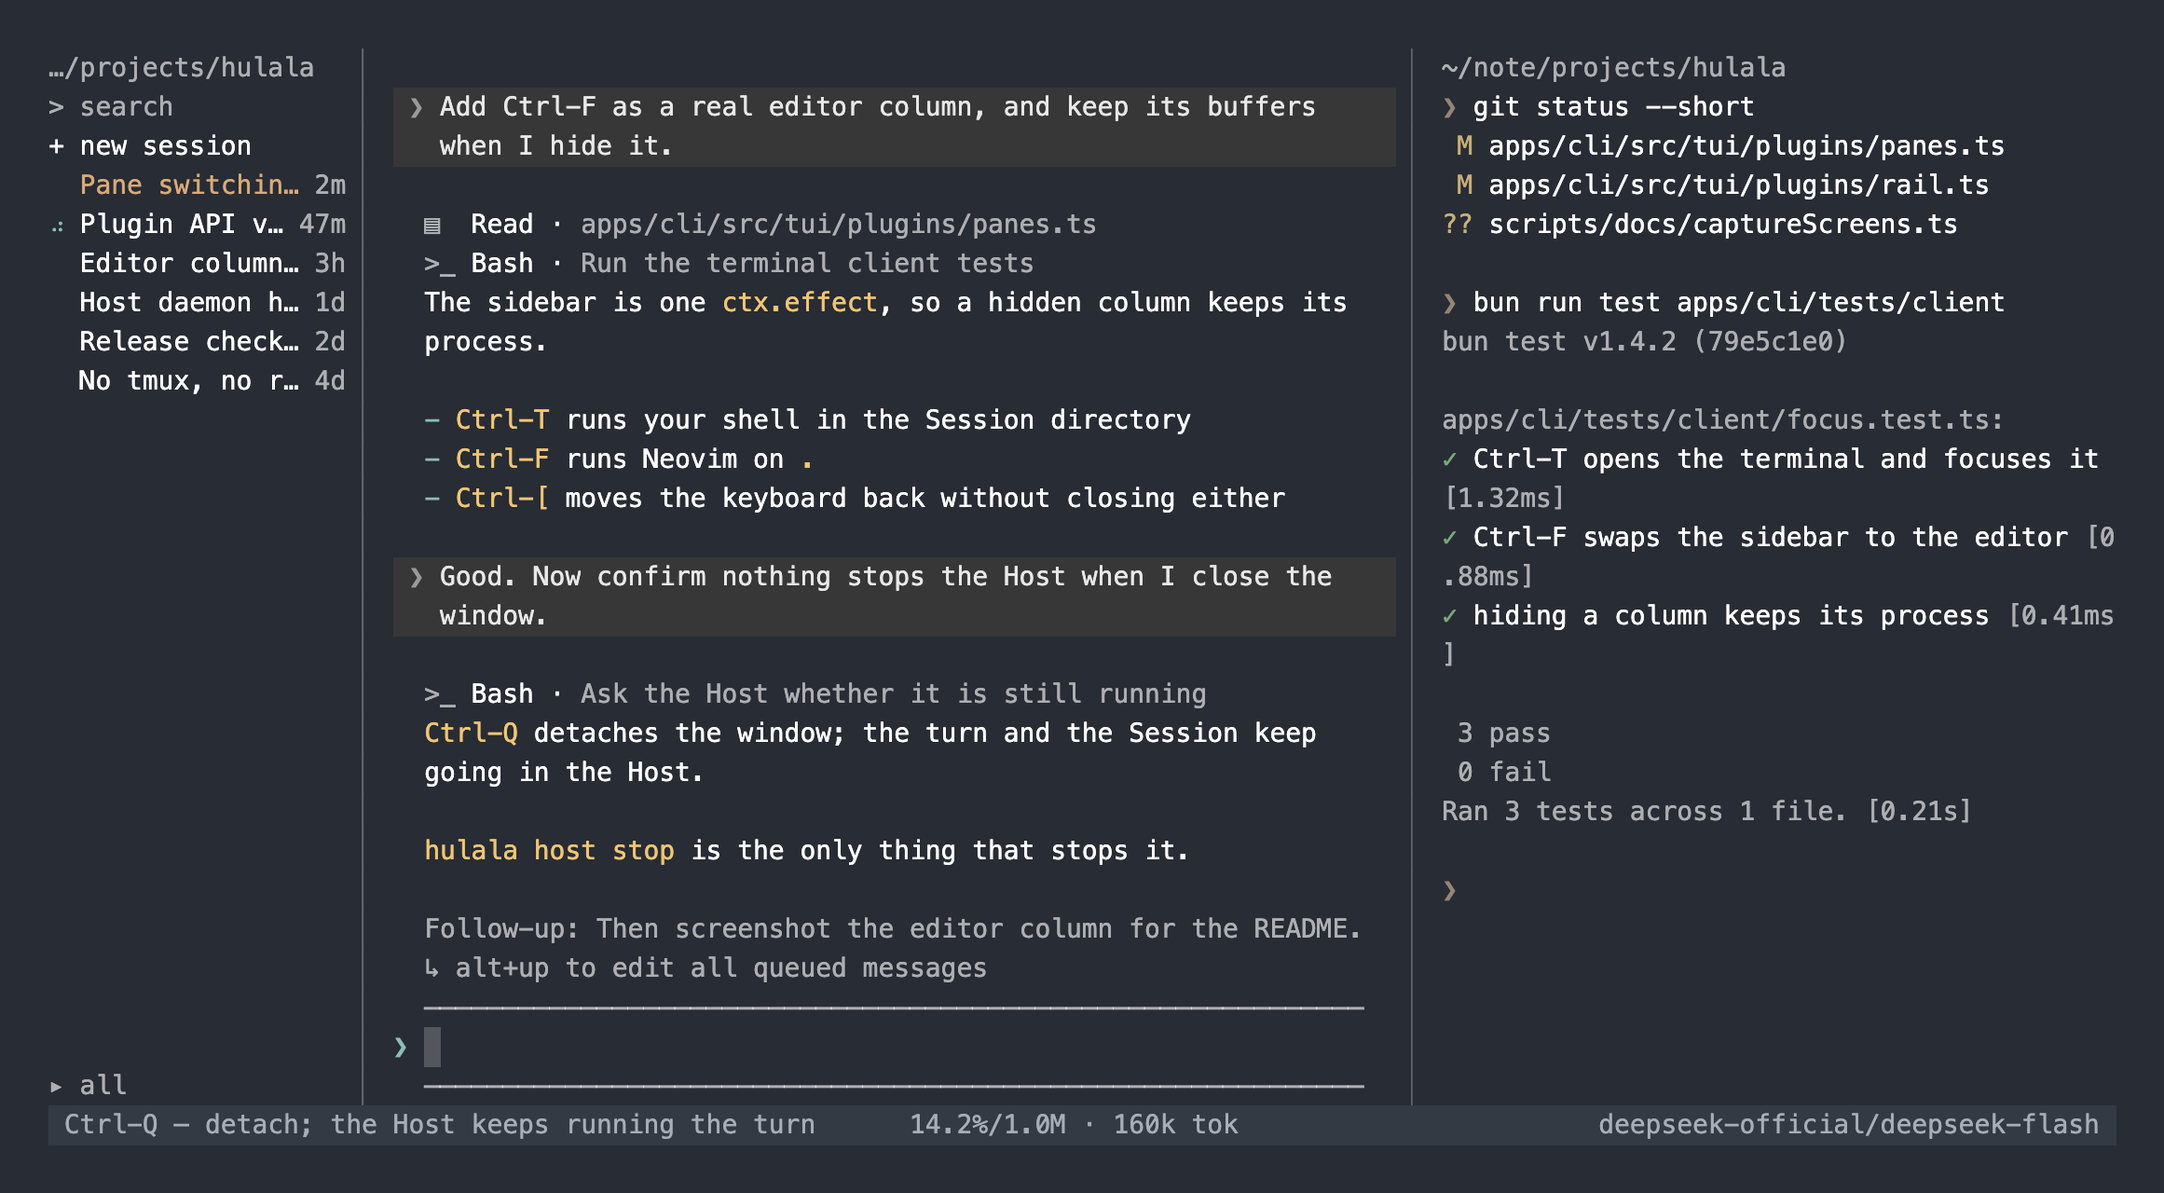
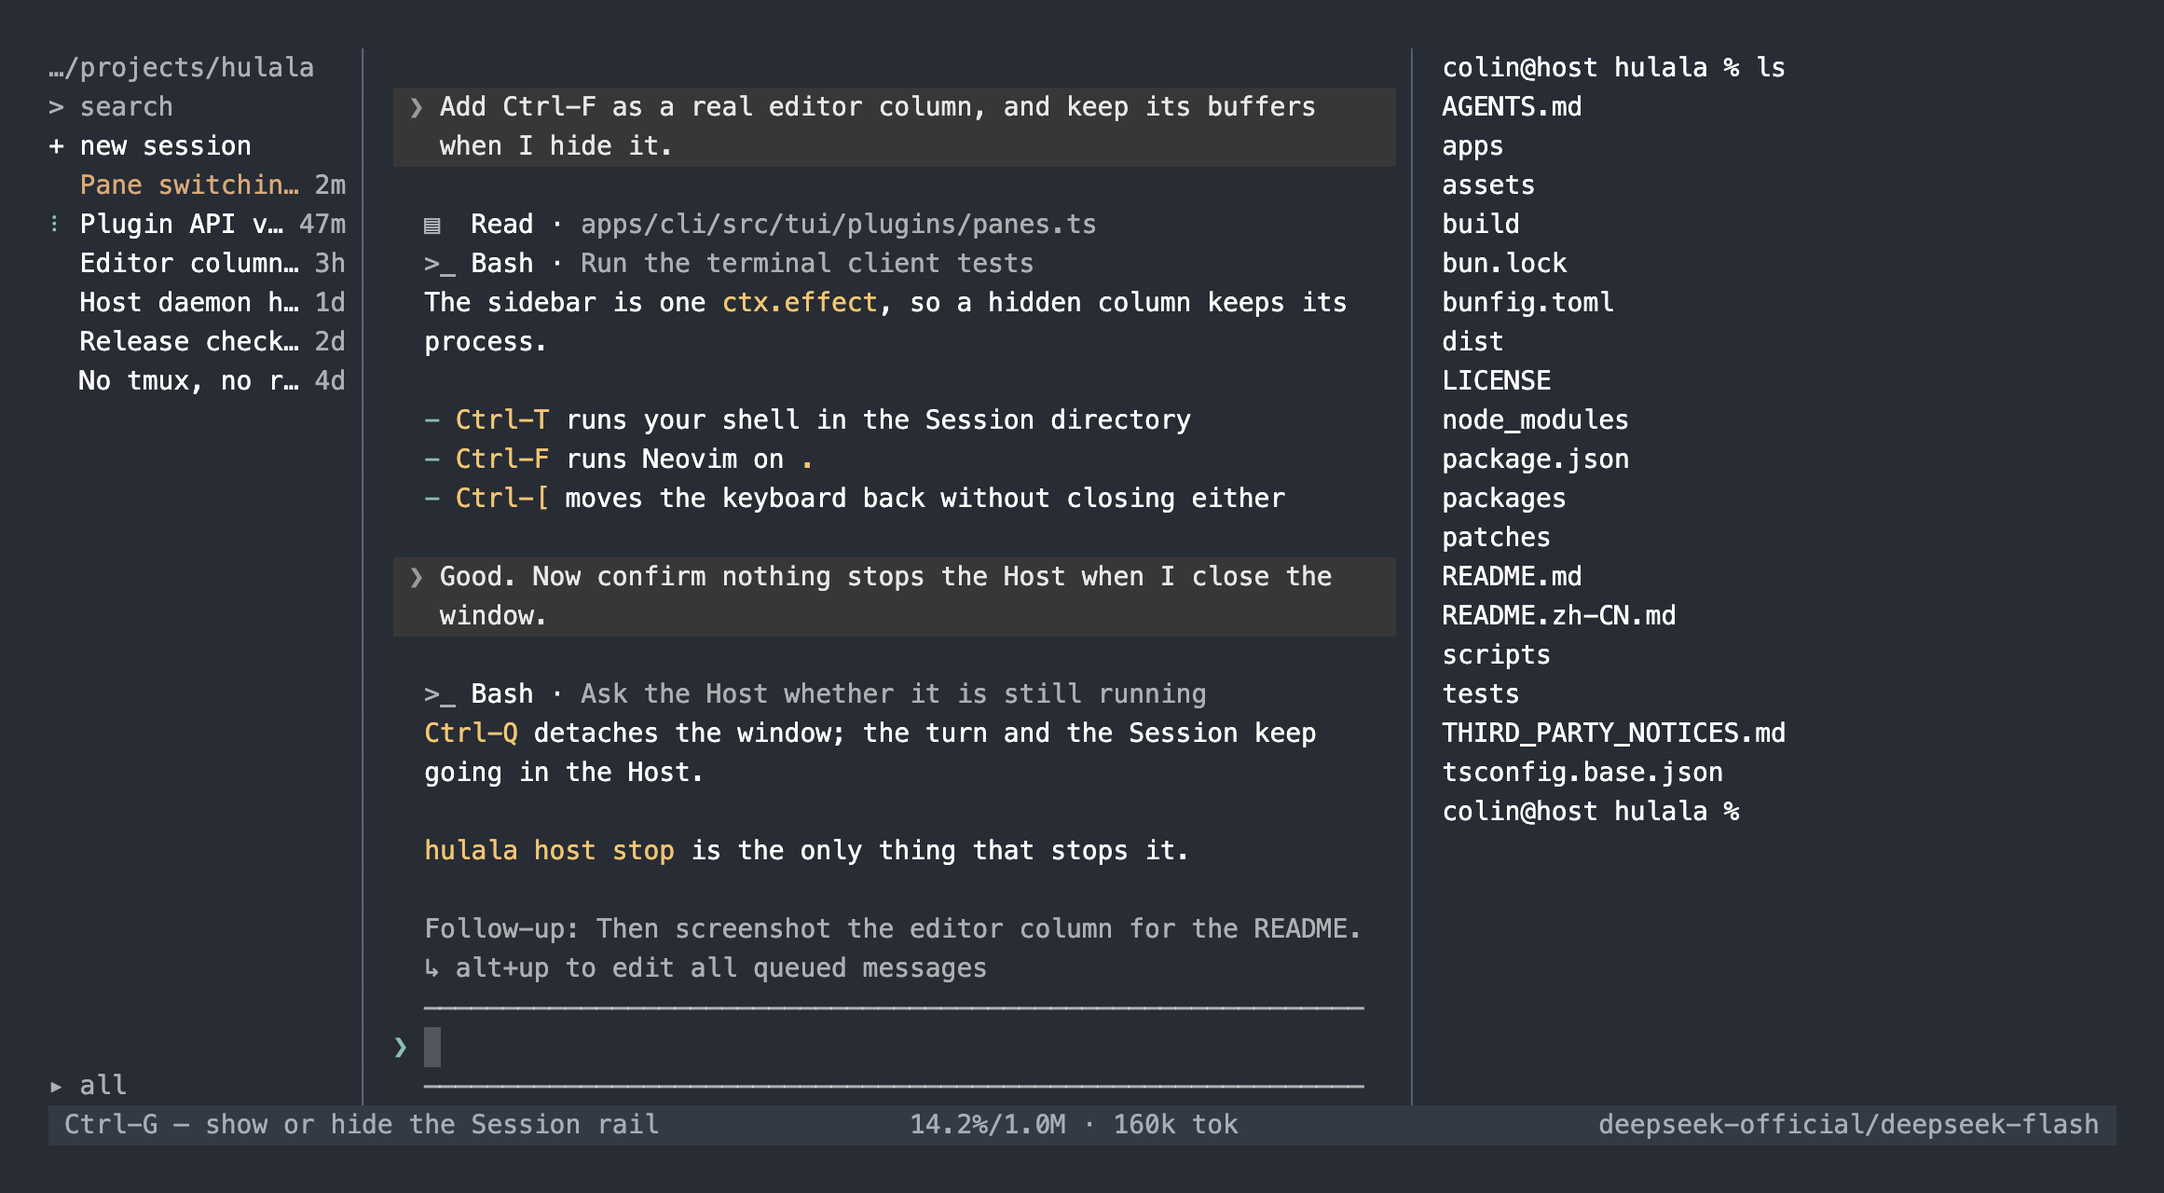
Mark list selection with a band, and capture only real frames
The rail's keyboard row now uses the same band as the file tree's, so the open
Session (ink) and the row you are on (band) are two different signals.

The screenshot script no longer draws the sidebar: every frame is the real
client, with the user's shell and Neovim — the tree shot opens a file from the
bundled explorer. Neovim's floats share one tinted surface with the tree so the
column reads as a single panel, and the selected row is the only one that
changes shade.

Changed region(s): [[0.6512, 0.0312, 0.9922, 0.6875], [0.093, 0.9375, 0.3721, 0.9688]]

diff --git a/scripts/docs/captureScreens.ts b/scripts/docs/captureScreens.ts
@@ -1,15 +1,15 @@
 /**
  * Capture the README and website screenshots under `assets/screens/`.
  *
- * The frames come from the real client: `runTerminalClient` runs with a fake
- * Host and a scripted pty, so layout, wrapping and colour are the shipped code
- * and nothing here redraws the product. The fake Host supplies a plausible
- * transcript and Session list; the scripted pty paints the two sidebar columns,
- * which are ordinary pty programs, so a script stands in for the shell and for
- * Neovim without either process being started.
+ * Every frame is the real client attached to a fake Host: the transcript comes
+ * from scripted events, but the sidebar columns are real processes (the user's
+ * shell, and Neovim with the bundled explorer), so nothing is redrawn here.
  *
- *   bun scripts/docs/captureScreens.ts          # conversation, terminal, editor
- *   bun scripts/docs/captureScreens.ts --tree   # the real file tree (real Neovim)
+ *   bun scripts/docs/captureScreens.ts          # conversation and terminal
+ *   bun scripts/docs/captureScreens.ts --tree   # editor column with the file tree
+ *
+ * The capture runs against a private state root, because the editor writes its
+ * Neovim config once and you want the current one, not the developer's.
  *
  * Rasterizing needs a local Chrome, so this is developer tooling, not a release
  * step. Run it from the repository root.
@@ -20,13 +20,17 @@ import { PassThrough } from 'node:stream'
 import { mkdtempSync, writeFileSync } from 'node:fs'
 import { tmpdir } from 'node:os'
 import { join } from 'node:path'
-import { runTerminalClient } from '../../apps/cli/src/tui/app.ts'
 import type { PtyModule, PtyProcess, PtySpawnOptions } from '../../apps/cli/src/tui/editor/pty.ts'
 import type { TerminalBackend, TerminalSession, TerminalSessionEvent, TerminalSessionHandlers } from '../../apps/cli/src/tui/data/remote.ts'
 import { rasterizeFrame } from './rasterizeFrame.ts'
 import { terminalReply } from './terminalTheme.ts'
 
 // The tree shot gets a wider frame: a third of it has to hold whole names.
+// A private state root: the editor writes its Neovim config once and never
+// rewrites it, so the capture needs a fresh home to pick up the current theme —
+// and it must not touch the developer's own installation.
+process.env.HULALA_HOME = mkdtempSync(join(tmpdir(), 'hulala-screens-home-'))
+
 const COLS = process.argv.includes('--tree') ? 190 : 132
 const ROWS = process.argv.includes('--tree') ? 34 : 28
 const CWD = '/Users/colin/note/projects/hulala'
@@ -40,92 +44,6 @@ const S = {
   blue: '\u001b[38;2;130;150;200m',
   yellow: '\u001b[38;2;200;175;120m',
   grey: '\u001b[38;2;115;117;122m',
-}
-
-/** A Neovim screen: the vendored editor's colours on a plausible file. */
-const EDITOR_LINES: string[] = [
-  `${S.grey}  1 ${R}${D}/**${R}`,
-  `${S.grey}  2 ${R}${D} * Every panel that reads keys asks for English.${R}`,
-  `${S.grey}  3 ${R}${D} * The composer never does.${R}`,
-  `${S.grey}  4 ${R}${D} */${R}`,
-  `${S.grey}  5 ${R}${S.blue}import${R} { spawn } ${S.blue}from${R} ${S.green}'node:child_process'${R}`,
-  `${S.grey}  6 ${R}`,
-  `${S.grey}  7 ${R}${S.blue}export interface${R} InputSource {`,
-  `${S.grey}  8 ${R}  readonly id: string`,
-  `${S.grey}  9 ${R}  readonly label: string`,
-  `${S.grey} 10 ${R}}`,
-  `${S.grey} 11 ${R}`,
-  `${S.grey} 12 ${R}${S.blue}const${R} ENGLISH = ${S.green}'com.apple.keylayout.ABC'${R}`,
-  `${S.grey} 13 ${R}`,
-  `${S.grey} 14 ${R}${S.blue}export function${R} ${S.yellow}switchTo${R}(target: InputSource) {`,
-  `${S.grey} 15 ${R}  ${S.blue}if${R} (target.id === ENGLISH) ${S.blue}return${R}`,
-  `${S.grey} 16 ${R}  ${D}// bin/ime ships with the release${R}`,
-  `${S.grey} 17 ${R}  spawn(imePath(), [target.id])`,
-  `${S.grey} 18 ${R}}`,
-  `${S.grey} 19 ${R}`,
-  `${S.grey} 20 ${R}${D}// Ctrl-[ is byte-identical to Esc${R}`,
-  `${S.grey} 21 ${R}${S.blue}export const${R} owns = (f: boolean) => f`,
-  `${S.grey} 22 ${R}`,
-  `${S.grey} 23 ${R}${D}~${R}`,
-]
-
-/** The editor's statusline, pinned to the pane's last row. */
-function statusline(cols: number): string {
-  const left = ' NORMAL  inputSource.ts'
-  const right = '10:4 utf-8 '
-  const pad = Math.max(1, cols - left.length - right.length)
-  return `\u001b[48;2;38;40;45m\u001b[38;2;210;208;202m${left}${' '.repeat(pad)}${right}${R}`
-}
-
-/** A pty whose program paints a scripted screen instead of running one. */
-function scriptedPty(): PtyModule {
-  return {
-    spawn(file: string, _args: string[], options: PtySpawnOptions): PtyProcess {
-      const isEditor = /nvim/.test(file)
-      let deliver: ((data: string) => void) | undefined
-      let cols = options.cols
-      let rows = options.rows
-      const paint = (): void => {
-        if (isEditor) {
-          const code = EDITOR_LINES.slice(0, Math.max(1, rows - 1))
-          while (code.length < rows - 1) code.push('')
-          deliver?.(`\u001b[H\u001b[2J${code.join('\r\n')}\u001b[${rows};1H${statusline(cols)}`)
-          return
-        }
-        const shell = [
-          `${D}~/note/projects/hulala${R}`,
-          `${S.brand}❯${R} git status --short`,
-          `${S.yellow} M${R} apps/cli/src/tui/plugins/panes.ts`,
-          `${S.yellow} M${R} apps/cli/src/tui/plugins/rail.ts`,
-          `${S.yellow}??${R} scripts/docs/captureScreens.ts`,
-          '',
-          `${S.brand}❯${R} bun run test apps/cli/tests/client`,
-          `${D}bun test v1.4.2 (79e5c1e0)${R}`,
-          '',
-          `${D}apps/cli/tests/client/focus.test.ts:${R}`,
-          `${S.green}✓${R} Ctrl-T opens the terminal and focuses it ${D}[1.32ms]${R}`,
-          `${S.green}✓${R} Ctrl-F swaps the sidebar to the editor ${D}[0.88ms]${R}`,
-          `${S.green}✓${R} hiding a column keeps its process ${D}[0.41ms]${R}`,
-          '',
-          `${D} 3 pass${R}`,
-          `${D} 0 fail${R}`,
-          `${D}Ran 3 tests across 1 file. [0.21s]${R}`,
-          '',
-          `${S.brand}❯${R} `,
-        ]
-        deliver?.(`\u001b[H\u001b[2J${shell.slice(0, rows).join('\r\n')}`)
-      }
-      const timer = setTimeout(paint, 60)
-      return {
-        pid: 1,
-        onData(handler) { deliver = handler },
-        onExit() {},
-        write() {},
-        resize(nextCols: number, nextRows: number) { cols = nextCols; rows = nextRows; paint() },
-        kill() { clearTimeout(timer) },
-      }
-    },
-  }
 }
 
 const sessions: TerminalSession[] = [
@@ -238,21 +156,21 @@ const wait = (ms: number): Promise<void> => new Promise((resolve) => setTimeout(
 /** Frames to capture: the key that opens the column, and the file it lands in. */
 const TREE = process.argv.includes('--tree')
 
-const SHOTS: Array<{ name: string; keys?: string[] }> = TREE
-  ? [{ name: '04-files', keys: ['\u0006', `${'\u001b[B'.repeat(16)}\r`] }]
+const SHOTS: Array<{ name: string; keys?: string[]; wait?: number }> = TREE
+  ? [{ name: '03-files', keys: ['\u0006', `${'\u001b[B'.repeat(16)}\r`], wait: 6000 }]
   : [
       { name: '01-conversation' },
-      { name: '02-terminal', keys: ['\u0014'] },
-      { name: '03-editor', keys: ['\u0006'] },
+      // The shell is the user's own: its prompt and rc files need a moment
+      // before it can take a command.
+      { name: '02-terminal', keys: ['\u0014', 'ls\r'], wait: 3000 },
     ]
 
 async function main(): Promise<void> {
+  const { runTerminalClient } = await import('../../apps/cli/src/tui/app.ts')
   const dir = mkdtempSync(join(tmpdir(), 'hulala-screens-'))
   void runTerminalClient({
     backend: fakeBackend(), cwd: CWD, input, output, resume: 'session-a',
-    // The tree shot is the real editor: the vendored snacks explorer is what the
-    // screenshot is meant to show, so nothing here paints over it.
-    ...(TREE ? {} : { pty: scriptedPty() }),
+
     updateCheck: async () => undefined,
   })
   await wait(1400)
@@ -262,7 +180,7 @@ async function main(): Promise<void> {
         input.write(key)
         // The editor needs real time to start Neovim, paint its explorer and
         // open the file the tree lands on.
-        await wait(TREE ? (index === 0 ? 6000 : 1600) : 900)
+        await wait(shot.wait ?? 900)
       }
     }
     const ansiPath = join(dir, `${shot.name}.ansi`)

diff --git a/apps/cli/src/tui/view/theme.ts b/apps/cli/src/tui/view/theme.ts
@@ -69,6 +69,15 @@ const BAND_TEXT = [0xa8, 0xad, 0xb7] as const
  */
 const SEPARATOR_RGB = [0x5c, 0x63, 0x70] as const
 
+/**
+ * The row under the keyboard in a list.
+ *
+ * The rail marks the open Session with ink; the row you are *on* is a band. Two
+ * different questions — which Session is open, and where the keyboard is — read
+ * as two different signals rather than one colour doing both jobs.
+ */
+const SELECTED_BG = [0x3a, 0x3f, 0x4a] as const
+
 const RESET = '\u001b[0m'
 
 function supportsTrueColor(): boolean {
@@ -162,6 +171,7 @@ function buildStyles(color: boolean): {
   brand: (text: string) => string
   band: (text: string) => string
   separator: (text: string) => string
+  selected: (text: string) => string
   userPanel: (text: string) => string
   userArrow: (text: string) => string
   error: (text: string) => string
@@ -175,7 +185,7 @@ function buildStyles(color: boolean): {
 } {
   if (!color) {
     const identity = (text: string): string => text
-    return { dim: identity, accent: identity, highlight: identity, brand: identity, band: identity, separator: identity, userPanel: identity, userArrow: identity, error: identity, warn: identity, ok: identity, bold: identity, italic: identity, strike: identity, underline: identity, code: identity }
+    return { dim: identity, accent: identity, highlight: identity, brand: identity, band: identity, separator: identity, selected: identity, userPanel: identity, userArrow: identity, error: identity, warn: identity, ok: identity, bold: identity, italic: identity, strike: identity, underline: identity, code: identity }
   }
   // A panel carries its own background and foreground. Inner styles reset both,
   // so re-open the panel after every nested reset to keep the row continuous to
@@ -189,6 +199,7 @@ function buildStyles(color: boolean): {
     accent: wrap('\u001b[36m', RESET),
     band: panel(`${bgOpen(BAND_BG)}${fgOpen(BAND_TEXT)}`),
     separator: wrap(fgOpen(SEPARATOR_RGB), RESET),
+    selected: panel(bgOpen(SELECTED_BG)),
     userPanel: panel(`${bgOpen(USER_PANEL_BG)}${fgOpen(USER_PANEL_TEXT)}`),
     userArrow: wrap(fgOpen(USER_PANEL_ARROW), RESET),
     error: wrap('\u001b[31m', RESET),

diff --git a/apps/cli/src/tui/editor/nvimConfig.ts b/apps/cli/src/tui/editor/nvimConfig.ts
@@ -111,6 +111,9 @@ vim.opt.shada = { "!", "'100", "<50", "s10", "h", "%" }
 
 local highlights = {
   Normal = { fg = fg, bg = bg },
+  -- The file tree and the pickers are one tinted surface of their own: a step
+  -- away from the editor, and the same whether the tree is a float or a window
+  -- beside a file. Only the row under the keyboard changes shade.
   NormalFloat = { fg = fg, bg = theme_value("pmenu", bg) },
   FloatBorder = { fg = theme_value("border", fg), bg = theme_value("pmenu", bg) },
   FloatTitle = { fg = theme_value("title", fg), bg = theme_value("pmenu", bg) },
@@ -167,6 +170,26 @@ local highlights = {
 for group, spec in pairs(highlights) do
   vim.api.nvim_set_hl(0, group, spec)
 end
+
+-- The file tree and the pickers mark the row under the keyboard with ink, not
+-- with a filled band: a background here would be a second surface inside a
+-- column that is meant to read as one, and this client reserves background
+-- blocks for panels, never for selection.
+vim.api.nvim_set_hl(0, "HulalaTree", { fg = fg, bg = theme_value("pmenu", bg) })
+vim.api.nvim_set_hl(0, "HulalaTreeCursor", { bg = theme_value("pmenuSelected", bg) })
+
+local function tree_window(win)
+  local filetype = vim.bo[vim.api.nvim_win_get_buf(win)].filetype
+  if not filetype:match("^snacks_picker") and filetype ~= "snacks_explorer" then return end
+  -- One surface for the whole column, whatever the tree is: the float it opens
+  -- as, and the window it becomes next to an opened file. The selected entry is
+  -- the only row allowed a different background.
+  vim.wo[win].winhighlight = "Normal:HulalaTree,NormalFloat:HulalaTree,EndOfBuffer:HulalaTree,SignColumn:HulalaTree,CursorLine:HulalaTreeCursor,SnacksPickerCursorLine:HulalaTreeCursor"
+end
+
+vim.api.nvim_create_autocmd({ "FileType", "BufWinEnter", "WinEnter" }, {
+  callback = function(event) tree_window(event.win) end,
+})
 
 -- Bundled tree-sitter parsers, published next to the editor's runtime tree.
 local parsers = vim.env.HULALA_NVIM_PARSERS

diff --git a/apps/website/app/HomePage.tsx b/apps/website/app/HomePage.tsx
@@ -12,8 +12,7 @@ const translations = {
       label: "THE CLIENT, UNRETOUCHED",
       conversation: "Session rail, conversation, tool rows and the composer.",
       terminal: "Ctrl-T: your shell in the Session directory.",
-      editor: "Ctrl-F: Neovim beside the conversation.",
-      files: "The same column on the Session directory: the file tree.",
+      files: "Ctrl-F: Neovim on the Session directory — the bundled file tree, with a file open beside it.",
     },
     nav: ["The terminal", "The screens", "What we refuse"],
     cta: "Install Hulala",
@@ -86,8 +85,7 @@ const translations = {
       label: "客户端原样截图",
       conversation: "会话栏、对话、工具行和 composer。",
       terminal: "Ctrl-T：会话目录里你自己的 shell。",
-      editor: "Ctrl-F：对话旁边的 Neovim。",
-      files: "同一列开在会话目录上：文件树。",
+      files: "Ctrl-F：在会话目录上打开 Neovim——内置文件树，旁边打开着一个文件。",
     },
     nav: ["终端", "截图", "我们不做什么"],
     cta: "安装 Hulala",
@@ -220,11 +218,7 @@ export default function HomePage({ locale }: { locale: SiteLocale }) {
             <figcaption>{t.screens.terminal}</figcaption>
           </figure>
           <figure>
-            <img src="/screens/03-editor.png" alt={t.screens.editor} width={1161} height={640} />
-            <figcaption>{t.screens.editor}</figcaption>
-          </figure>
-          <figure>
-            <img src="/screens/04-files.png" alt={t.screens.files} width={1161} height={640} />
+            <img src="/screens/03-files.png" alt={t.screens.files} width={1648} height={766} />
             <figcaption>{t.screens.files}</figcaption>
           </figure>
         </div>

diff --git a/apps/cli/src/tui/view/sessionRail.ts b/apps/cli/src/tui/view/sessionRail.ts
@@ -434,11 +434,11 @@ export class SessionRail implements Component {
   ): string {
     if (row.kind === 'new') {
       const label = '+ new session'
-      return selected ? styles.accent(padEnd(label, width)) : padEnd(label, width)
+      return selected ? styles.selected(padEnd(label, width)) : padEnd(label, width)
     }
     if (row.kind === 'more') {
       const label = row.revealed ? '↑ Less' : `↓ More · ${row.hidden}`
-      return selected ? styles.accent(padEnd(label, width)) : padEnd(styles.dim(label), width)
+      return selected ? styles.selected(padEnd(label, width)) : padEnd(styles.dim(label), width)
     }
     const session = row.session
     const current = session.sessionId === state.currentId
@@ -452,7 +452,7 @@ export class SessionRail implements Component {
     const title = clip(sessionLabel(session), titleWidth)
     const gap = Math.max(0, width - 2 - visibleWidth(title) - timeWidth - 1)
     const plain = `${glyph} ${title}${' '.repeat(gap)} ${time}`
-    if (selected) return styles.accent(plain)
+    if (selected) return styles.selected(plain)
     const head = session.running ? styles.accent(glyph) : glyph
     const label = current ? styles.highlight(title) : title
     return `${head} ${label}${' '.repeat(gap)} ${styles.dim(time)}`
@@ -465,7 +465,7 @@ export class SessionRail implements Component {
     selected: boolean,
   ): string {
     const label = `${state.allExpanded ? '▾' : '▸'} all`
-    if (selected) return styles.accent(padEnd(label, width))
+    if (selected) return styles.selected(padEnd(label, width))
     return padEnd(styles.dim(label), width)
   }
 }

diff --git a/README.md b/README.md
@@ -61,26 +61,20 @@ and a bare `&` exist to fake exactly this; here it is what the program does by
 default, and `hulala host stop` is the explicit way to end it.
 
 <p align="center">
-  <img src="assets/screens/02-terminal.png" alt="The built-in terminal column: the user's shell in the Session directory" width="900" />
+  <img src="assets/screens/02-terminal.png" alt="The built-in terminal column: a shell in the Session directory" width="900" />
   <br />
   <sub><code>Ctrl-T</code>: the built-in terminal — your shell in the Session directory, with its own scrollback.</sub>
 </p>
 
 <p align="center">
-  <img src="assets/screens/03-editor.png" alt="The editor column: Neovim beside the conversation, buffers kept while the column is hidden" width="900" />
+  <img src="assets/screens/03-files.png" alt="The editor column on the Session directory: the real file tree with a file open beside it" width="900" />
   <br />
-  <sub><code>Ctrl-F</code>: Neovim beside the conversation — the real editor, its buffers kept while the column is hidden.</sub>
-</p>
-
-<p align="center">
-  <img src="assets/screens/04-files.png" alt="The editor column on the Session directory: the real file tree with bunfig.toml open beside it" width="900" />
-  <br />
-  <sub>The same column on the Session directory: the bundled file tree, with <code>bunfig.toml</code> opened from it.</sub>
+  <sub><code>Ctrl-F</code>: Neovim on the Session directory — the bundled file tree, a file opened from it, and buffers kept while the column is hidden.</sub>
 </p>
 
 `Ctrl-F` opens the editor on the Session directory, so it is also the file tree:
 the bundled explorer (`apps/cli/vendor/snacks.nvim`) replaces netrw, and picking
-a file opens it in the same column.
+a file opens it beside the tree in the same column.
 
 ## Keyboard
 
